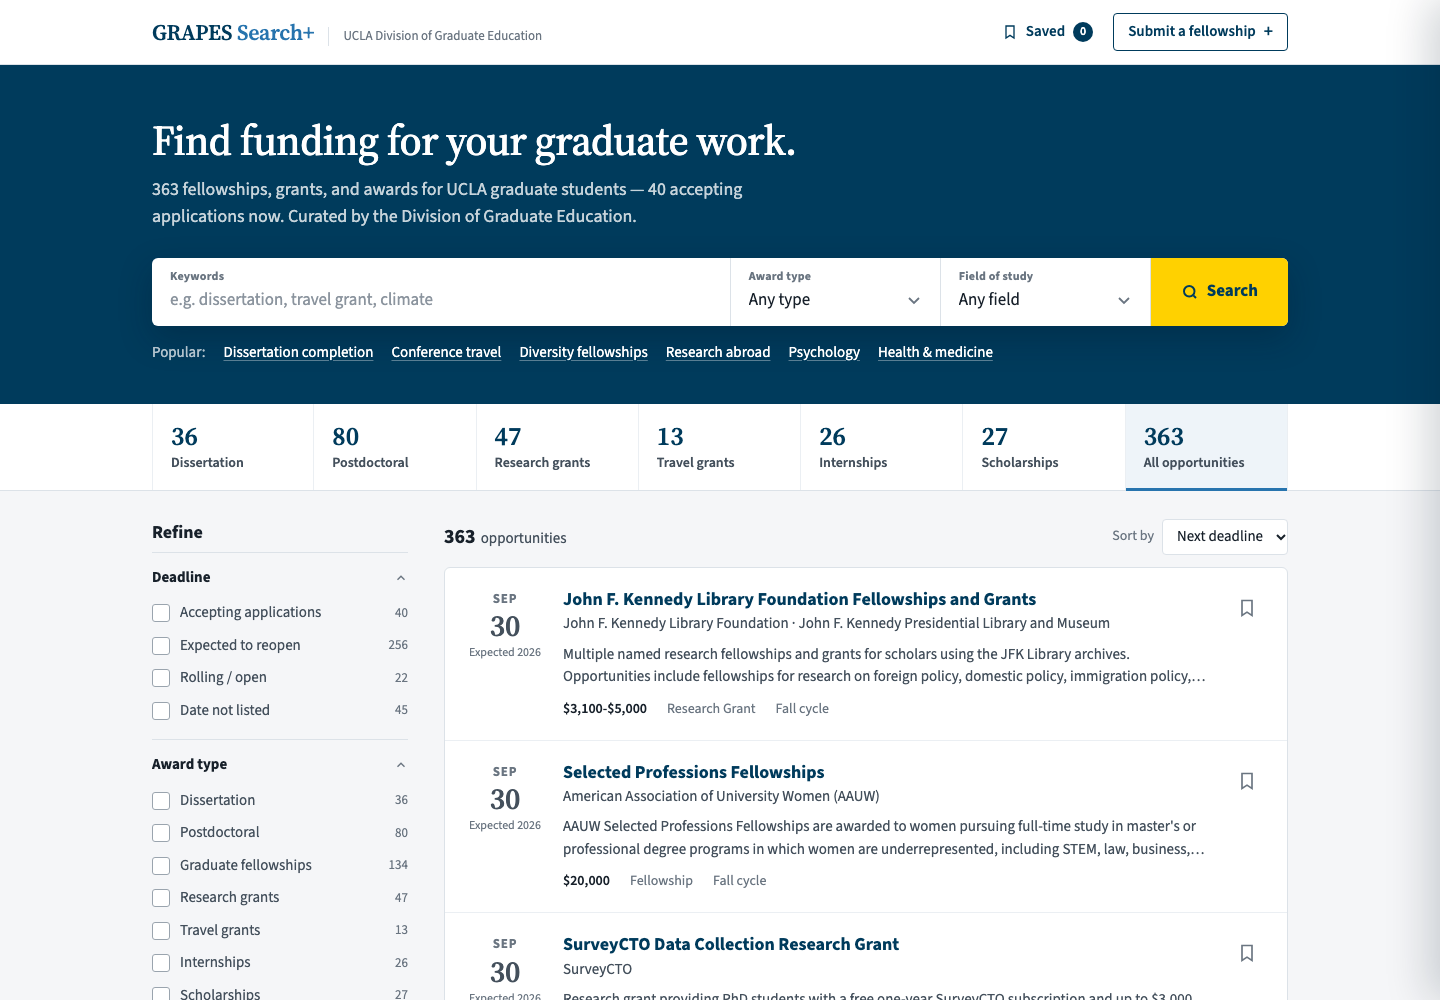
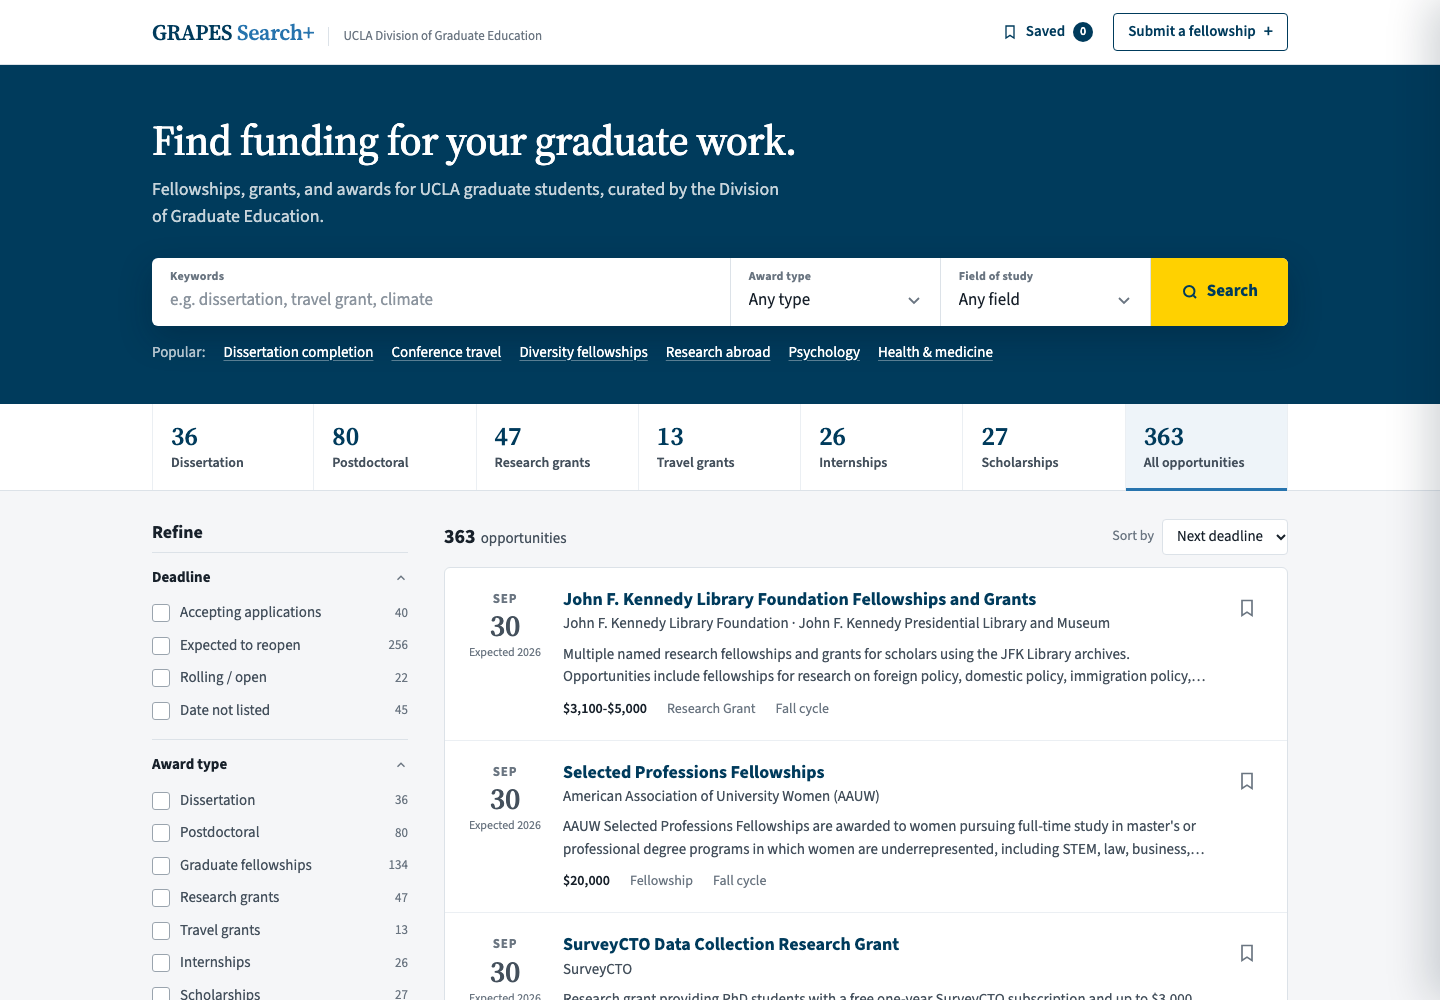
Remove live counts from the headline and README
The headline counted open deadlines, which reads as stale as dates pass.
The type tiles and filters already show current counts.

Changed region(s): [[0.0938, 0.186, 0.5312, 0.248]]

diff --git a/grapes-fellowship-finder.html b/grapes-fellowship-finder.html
@@ -759,8 +759,6 @@ function init(){
   const opt=(arr,all)=>`<option value="">${all}</option>`+arr.map(([v,l])=>`<option value="${v}">${esc(l)}</option>`).join('')+'<option value="multi" hidden>Multiple selected</option>';
   document.getElementById('typeSel').innerHTML=opt(TYPES,'Any type');
   document.getElementById('fieldSel').innerHTML=opt(FIELDS,'Any field');
-  const open=DATA.filter(r=>r._status==='open').length;
-  document.getElementById('lede').textContent=`${DATA.length} fellowships, grants, and awards for UCLA graduate students — ${open} accepting applications now. Curated by the Division of Graduate Education.`;
   readHash();render();
 }
 

diff --git a/README.md b/README.md
@@ -9,7 +9,7 @@ Created by Daylor Williams for the UCLA Division of Graduate Education (DGE).
 
 ## What it is
 
-GRAPES Search+ is a searchable database of 363 graduate fellowships, grants, and awards, built from the UCLA DGE GRAPES dataset. Students can search in plain language ("psychology dissertation", "conference travel") and narrow results by deadline, award type, field of study, and application season.
+GRAPES Search+ is a searchable database of graduate fellowships, grants, and awards, built from the UCLA DGE GRAPES dataset. Students can search in plain language ("psychology dissertation", "conference travel") and narrow results by deadline, award type, field of study, and application season.
 
 Listings reviewed by DGE this cycle are marked verified. The rest are shown with an "Unverified listing" note so students know to double-check the details.
 
